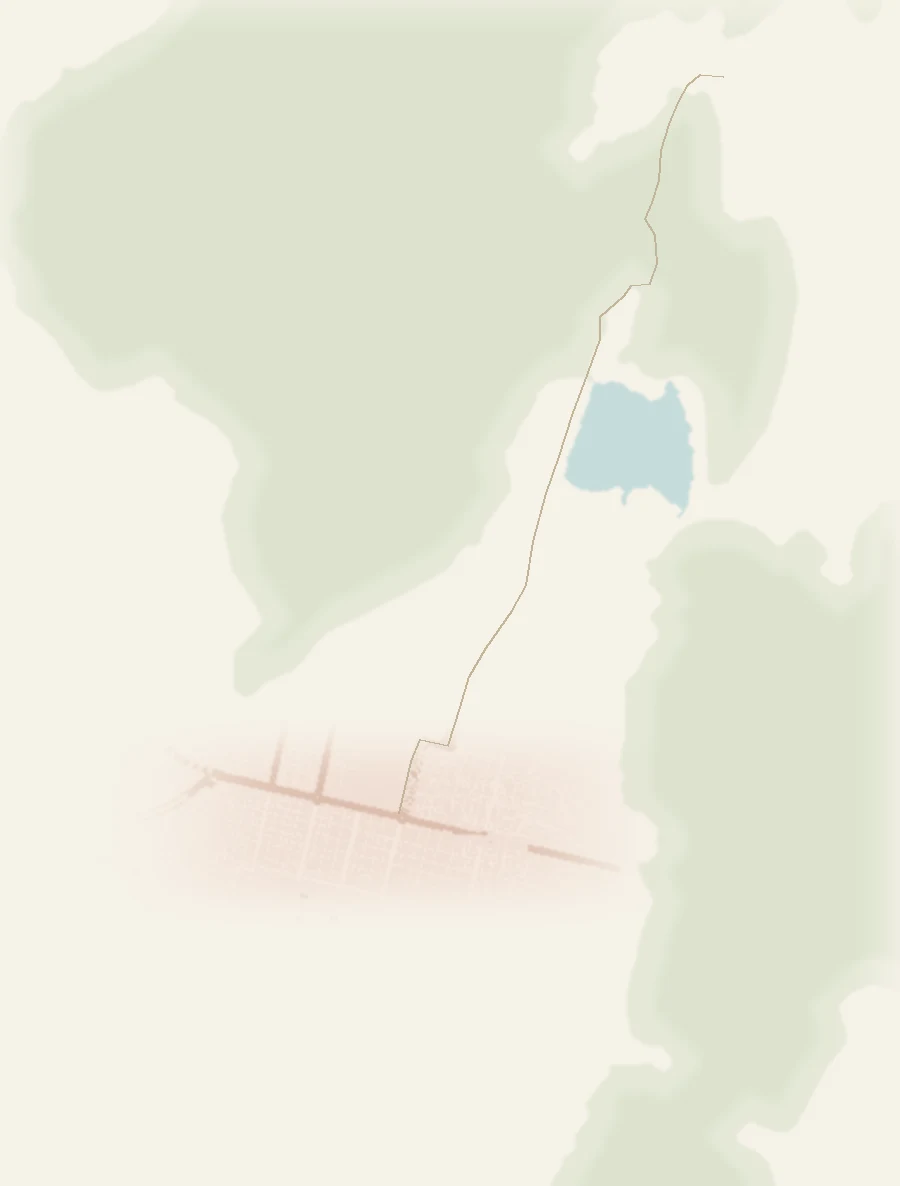
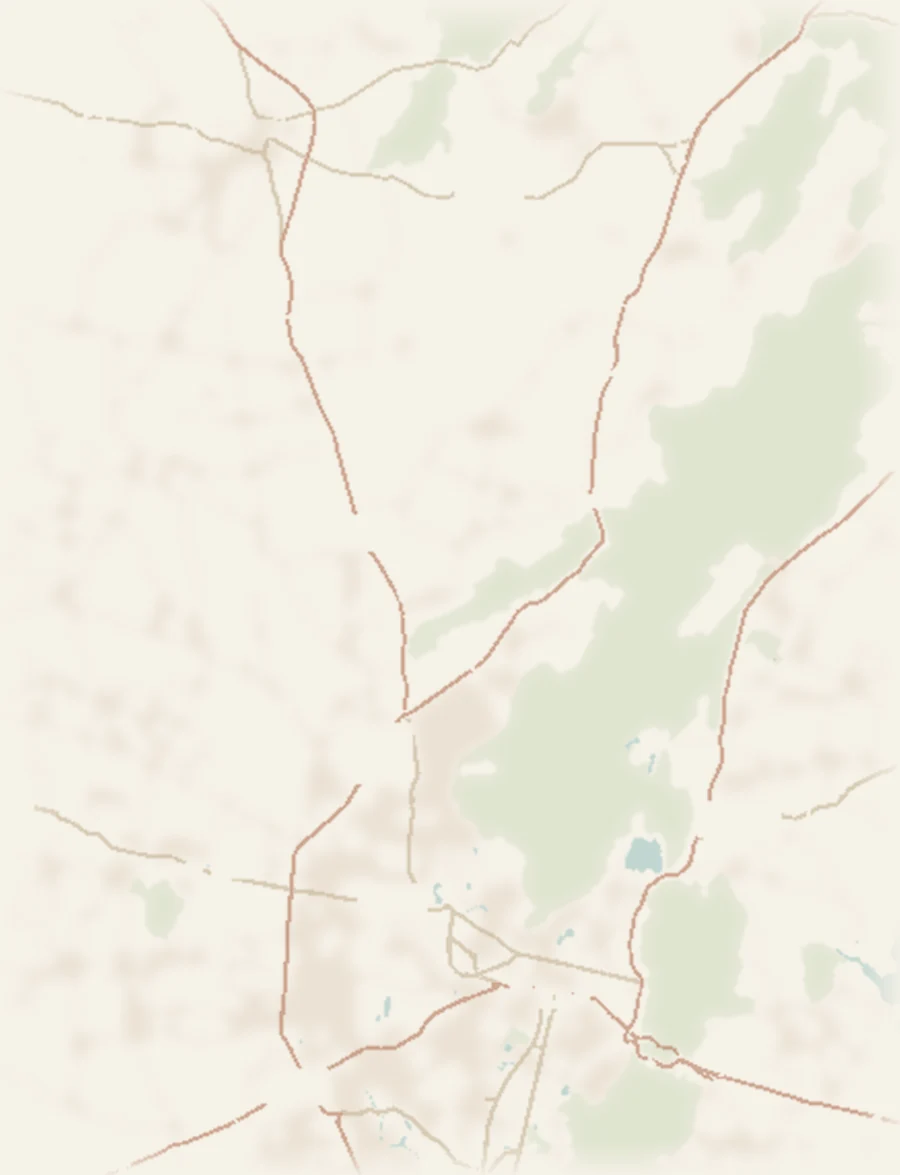
Place Chomu Palace on the main Jaipur map

diff --git a/index.html b/index.html
@@ -3,7 +3,7 @@
 <head>
   <meta charset="utf-8"><meta name="viewport" content="width=device-width,initial-scale=1"><meta name="robots" content="noindex"><title>Shivangi &amp; Shaan | Chomu Palace</title>
   <link rel="stylesheet" href="assets/vendor/photoswipe-5.4.4/photoswipe.css">
-  <link rel="stylesheet" href="styles.css?v=chomu-whatsapp">
+  <link rel="stylesheet" href="styles.css?v=chomu-on-the-map">
   <script defer src="site.js?v=chomu-whatsapp"></script>
   <script type="module" src="photo-lightbox.js"></script>
 </head><body>
@@ -49,11 +49,14 @@
 <div id="peacock-timeline">
 <div class="ps-stage" aria-label="Wedding programme styling">
 <section class="ps-sheet" aria-labelledby="ps-timeline-heading">
-<header class="ps-header"><h2 class="ps-title" id="ps-timeline-heading">The Timeline</h2><div class="ps-title-peacock" aria-hidden="true"></div></header>
+<header class="ps-header">
+  <div class="ps-title-row"><h2 class="ps-title" id="ps-timeline-heading">The Timeline</h2><div class="ps-title-peacock" aria-hidden="true"></div></div>
+  <p class="ps-venue">Chomu Palace</p>
+</header>
 
 <section class="ps-day" aria-labelledby="ps-sunday"><h3 class="ps-date" id="ps-sunday">Sunday · December 27</h3><div class="ps-events"><article class="ps-event"><time datetime="2026-12-27T13:00:00+05:30">1:00 PM</time><img class="ps-event-motif ps-motif-henna" src="assets/motif-henna-isolated.webp" alt="" aria-hidden="true" width="44" height="52"><div class="ps-event-body"><h4>Mehendi Mela & Haldi</h4><p>Chaar Baagh</p></div></article><article class="ps-event"><time datetime="2026-12-27T19:00:00+05:30">7:00 PM</time><img class="ps-event-motif ps-motif-music" src="assets/motif-music-isolated.webp" alt="" aria-hidden="true" width="44" height="52"><div class="ps-event-body"><h4>Sangeet & Cocktails</h4><p>Swaimaan Mahal</p></div></article></div></section>
 <section class="ps-day" aria-labelledby="ps-monday"><h3 class="ps-date" id="ps-monday">Monday · December 28</h3><div class="ps-events"><article class="ps-event"><time datetime="2026-12-28T15:00:00+05:30">3:00 PM</time><img class="ps-event-motif ps-motif-baraat" src="assets/motif-baraat-isolated.webp" alt="" aria-hidden="true" width="44" height="52"><div class="ps-event-body"><h4>Baraat assembles</h4><p>Mani Chowk</p></div></article><article class="ps-event"><time datetime="2026-12-28T16:30:00+05:30">4:30 PM</time><img class="ps-event-motif ps-motif-garland" src="assets/motif-garland-isolated.webp" alt="" aria-hidden="true" width="44" height="52"><div class="ps-event-body"><h4>Varmala & Pheras</h4><p>Mani Chowk</p></div></article><article class="ps-event"><time datetime="2026-12-28T20:00:00+05:30">8:00 PM</time><img class="ps-event-motif ps-motif-reception" src="assets/motif-reception-isolated.webp" alt="" aria-hidden="true" width="44" height="52"><div class="ps-event-body"><h4>Reception</h4><p>Manoharpole Garden</p></div></article></div></section>
-<footer class="ps-footer"><small>Chomu Palace · 2026 · All times IST</small></footer>
+<footer class="ps-footer"><small>2026 · All times IST</small></footer>
 </section>
 </div>
 </div>
@@ -62,7 +65,7 @@
   <div class="cc-inner cc-service">
     <div>
       <h2 class="cc-heading" id="cc-guest-heading">Hair <em>&amp; makeup</em></h2>
-      <p class="cc-copy">Message us with the service and event you’d like to book for.</p>
+      <p class="cc-copy">Services available at the Chomu Palace.</p>
     </div>
     <a class="cc-whatsapp" href="https://wa.me/919252096570?text=Hi%21%20I%27d%20like%20to%20request%20hair%20and%20makeup%20for%20the%20wedding." aria-label="Request hair and makeup on WhatsApp">Message on WhatsApp</a>
   </div>
@@ -72,27 +75,32 @@
   <section class="jp-guide" aria-labelledby="jp-heading">
     <header><h2 id="jp-heading">A taste of <em>Jaipur.</em></h2></header>
     <div class="jp-layout">
-      <figure class="jp-main" aria-label="Illustrated map of Jaipur with a regional inset showing Chomu Palace to the northwest">
-        <div class="jp-map" aria-hidden="true">
-          <img src="assets/jaipur-overview.webp" width="900" height="1186" alt="">
-          <span class="jp-north">↑ N</span>
-          <span class="jp-detail-locator" style="left:32.308%;top:64.088%;width:20.577%;height:11.679%"></span>
-          <span class="jp-context amber-label" style="left:69.808%;top:1.314%">Amber Palace</span><span class="jp-context hill-label" style="left:37.885%;top:25.255%">Aravalli foothills</span><span class="jp-context lake-label" style="left:72.692%;top:44.672%">Man Sagar Lake</span><span class="jp-context fort-label" style="left:28.462%;top:47.153%">Nahargarh Fort</span><span class="jp-context pink-label" style="left:44.423%;top:79.270%">The Pink City</span>
-          <span class="jp-scale" style="width:11.289%">1 km</span>
-          <span class="jp-mark" data-place="amber" style="left:71.413%;top:8.883%"><i class="jp-art amber"></i><b>1</b></span><span class="jp-mark" data-place="nahargarh" style="left:31.969%;top:55.296%"><i class="jp-art nahargarh"></i><b>2</b></span><span class="jp-mark" data-place="rawat" style="left:10.944%;top:70.552%"><i class="jp-art rawat"></i><b>6</b></span><span class="jp-mark" data-place="palladio" style="left:31.127%;top:92.854%"><i class="jp-art palladio"></i><b>8</b></span>
-        </div>
-        <div class="jp-region" role="group" aria-label="Regional inset, north up. Chomu Palace is northwest of Jaipur.">
-          <span class="jp-region-caption" aria-hidden="true">Regional inset</span>
-          <span class="jp-region-north" aria-hidden="true">↑ N</span>
-          <svg class="jp-region-map" viewBox="0 0 184 114" aria-hidden="true">
-            <!-- North-up Mercator. Chomu Palace: 27.1694 N, 75.7208 E.
-                 The small rectangle shows the extent of the detailed Jaipur map. -->
-            <rect x="34.28" y="67.36" width="15.22" height="20.05" class="jp-region-extent"/>
-            <circle cx="23" cy="34" r="3.6" class="jp-region-venue"/>
-            <circle cx="41.06" cy="81" r="2.55" class="jp-region-centre"/>
-          </svg>
-          <a class="jp-region-chomu" href="https://www.google.com/maps/dir/?api=1&amp;destination=Chomu+Palace+Hotel%2C+Chomu%2C+Rajasthan" target="_blank" rel="noopener noreferrer" aria-label="Directions to Chomu Palace from the regional map">Chomu Palace</a>
-          <span class="jp-region-city">Jaipur</span>
+      <figure class="jp-main" aria-label="Illustrated map of Jaipur and Chomu Palace, northwest of the city">
+        <div class="jp-map">
+          <!-- North-up Web Mercator, west 75.635°, east 75.935°, north 27.210°, south 26.861°. -->
+          <img src="assets/jaipur-overview.webp?v=chomu-on-the-map" width="900" height="1175" alt="">
+          <div aria-hidden="true">
+            <span class="jp-north">↑ N</span>
+            <span class="jp-detail-locator" style="left:60.264%;top:80.815%;width:6.123%;height:3.505%"></span>
+            <svg class="jp-leaders" viewBox="0 0 900 1175">
+              <g class="jp-anchor" data-place="amber"><line x1="647.1" y1="754.91" x2="705" y2="723"/><circle cx="647.1" cy="754.91" r="5"/></g>
+              <g class="jp-anchor" data-place="nahargarh"><line x1="541.47" y1="918.58" x2="484" y2="858"/><circle cx="541.47" cy="918.58" r="5"/></g>
+              <g class="jp-anchor" data-place="rawat"><line x1="485.17" y1="972.37" x2="389" y2="976"/><circle cx="485.17" cy="972.37" r="5"/></g>
+              <g class="jp-anchor" data-place="palladio"><line x1="539.22" y1="1051.02" x2="576" y2="1065"/><circle cx="539.22" cy="1051.02" r="5"/></g>
+              <line x1="597.48" y1="970.5" x2="632" y2="970.5"/>
+            </svg>
+            <span class="jp-context hill-label" style="left:73.5%;top:45%">Aravalli foothills</span>
+            <span class="jp-context" style="left:82%;top:52.2%">Amber Palace</span>
+            <span class="jp-context" style="left:46%;top:64%">Nahargarh Fort</span>
+            <span class="jp-context pink-label" style="left:82%;top:82.6%">The Pink City</span>
+            <span class="jp-context jp-city-label" style="left:45.5%;top:93.5%">Jaipur</span>
+            <span class="jp-scale" style="width:16.786%">5 km</span>
+            <span class="jp-mark" data-place="amber" style="left:83.556%;top:59.660%"><i class="jp-art amber"></i><b>1</b></span>
+            <span class="jp-mark" data-place="nahargarh" style="left:50.778%;top:70.894%"><i class="jp-art nahargarh"></i><b>2</b></span>
+            <span class="jp-mark" data-place="rawat" style="left:36.889%;top:83.064%"><i class="jp-art rawat"></i><b>6</b></span>
+            <span class="jp-mark" data-place="palladio" style="left:68.889%;top:92.085%"><i class="jp-art palladio"></i><b>8</b></span>
+          </div>
+          <a class="jp-venue" style="left:28.600%;top:11.649%" href="https://www.google.com/maps/dir/?api=1&amp;destination=Chomu+Palace+Hotel%2C+Chomu%2C+Rajasthan" target="_blank" rel="noopener noreferrer" aria-label="Chomu Palace, wedding venue. Get directions.">Chomu Palace</a>
         </div>
       </figure>
       <div class="jp-side">

diff --git a/styles.css b/styles.css
@@ -198,7 +198,8 @@ body:has(.pswp--open) { overflow: hidden; }
 #peacock-timeline .ps-footer small{display:block;font:400 11px/1.7 'Cormorant Garamond',Georgia,serif;letter-spacing:.35px;color:var(--ps-muted);margin-top:9px}
 @container (max-width:440px){#peacock-timeline .ps-stage{padding:24px 24px}#peacock-timeline .ps-sheet{padding:0 22px}#peacock-timeline .ps-title{font-size:37px;gap:8px}#peacock-timeline .ps-title em{font-size:40px}#peacock-timeline .ps-stage{--ps-bird-size:124px}}
 @container (max-width:350px){#peacock-timeline .ps-stage{padding:22px 18px}#peacock-timeline .ps-sheet{padding:0 18px}#peacock-timeline .ps-event-body{padding-left:12px}#peacock-timeline .ps-event h4{font-size:16.5px}#peacock-timeline .ps-event p{font-size:13px}#peacock-timeline .ps-bird-left{left:calc(16px - var(--ps-bird-size));top:97px}#peacock-timeline .ps-bird-right{right:calc(16px - var(--ps-bird-size));top:261px}}
-#peacock-timeline .ps-header{display:flex;align-items:center;justify-content:center;gap:10px;margin-bottom:24px}
+#peacock-timeline .ps-title-row{display:flex;align-items:center;justify-content:center;gap:10px}
+#peacock-timeline p.ps-venue{margin:4px 0 0;color:var(--ps-muted);font:400 18px/1.25 'Cormorant Garamond',Georgia,serif;letter-spacing:.035em}
 #peacock-timeline h2.ps-title{font:400 46px/1.2 'Pinyon Script','Cormorant Garamond',Georgia,serif;letter-spacing:0;display:block;white-space:nowrap}
 #peacock-timeline .ps-title-peacock{width:76px;height:38px;flex:0 0 76px;background-image:var(--ps-art);background-size:contain;background-repeat:no-repeat;opacity:var(--ps-motifs)}
 #peacock-timeline .ps-event{position:relative;min-height:54px}
@@ -210,7 +211,7 @@ body:has(.pswp--open) { overflow: hidden; }
 #peacock-timeline .ps-motif-garland{background-position:75% center}
 #peacock-timeline .ps-motif-reception{background-position:100% center}
 @container (max-width:440px){#peacock-timeline h2.ps-title{font-size:41px}#peacock-timeline .ps-title-peacock{width:64px;height:32px;flex-basis:64px}}
-@container (max-width:350px){#peacock-timeline h2.ps-title{font-size:38px}#peacock-timeline .ps-header{gap:7px}#peacock-timeline .ps-title-peacock{width:58px;height:29px;flex-basis:58px}#peacock-timeline .ps-event-motif{right:-31px;width:34px;height:57px}}
+@container (max-width:350px){#peacock-timeline h2.ps-title{font-size:38px}#peacock-timeline .ps-title-row{gap:7px}#peacock-timeline .ps-title-peacock{width:58px;height:29px;flex-basis:58px}#peacock-timeline .ps-event-motif{right:-31px;width:34px;height:57px}}
 
 #peacock-timeline .ps-stage{--ps-event-art:none}
 
@@ -253,12 +254,10 @@ body:has(.pswp--open) { overflow: hidden; }
   align-items: start;
 }
 #pink-city-guide figure { min-width: 0; margin: 0; }
-#pink-city-guide .jp-main { position: relative; }
 #pink-city-guide .jp-map { position: relative; }
 #pink-city-guide .jp-map > img { display: block; width: 100%; height: auto; }
-#pink-city-guide .jp-main .jp-map > img { aspect-ratio: 520 / 685; }
 #pink-city-guide .jp-detail .jp-map > img { aspect-ratio: 107 / 80; }
-#pink-city-guide .jp-leaders { position: absolute; inset: 0; width: 100%; height: 100%; }
+#pink-city-guide .jp-leaders { position: absolute; inset: 0; width: 100%; height: 100%; pointer-events: none; }
 #pink-city-guide .jp-leaders line { stroke: #a87865; stroke-width: 1; vector-effect: non-scaling-stroke; }
 #pink-city-guide .jp-leaders circle { fill: #925748; stroke: #fff8ed; stroke-width: 1; vector-effect: non-scaling-stroke; }
 #pink-city-guide .jp-anchor.is-selected line { stroke: #2c493c; }
@@ -271,44 +270,32 @@ body:has(.pswp--open) { overflow: hidden; }
   transform: translate(-50%, -50%);
 }
 #pink-city-guide .jp-north { right: 1%; top: 2%; transform: none; font-size: 12px; }
-#pink-city-guide .jp-region {
+#pink-city-guide .jp-venue {
   position: absolute;
-  top: 1%;
-  left: 1%;
-  width: min(46%, 205px);
-  aspect-ratio: 184 / 114;
-  border: 1px solid #d4cdb9;
-  background: #f7f3e9;
-}
-#pink-city-guide .jp-region-map { display: block; width: 100%; height: 100%; }
-#pink-city-guide .jp-region-extent { fill: #e6eadc; stroke: #98a286; stroke-width: 1; stroke-dasharray: 2 1.6; }
-#pink-city-guide .jp-region-venue { fill: #925748; }
-#pink-city-guide .jp-region-centre { fill: #607557; }
-#pink-city-guide :is(.jp-region-caption, .jp-region-north) {
-  position: absolute;
-  top: 4px;
-  font: 11px/1.2 'DM Sans', Arial, sans-serif;
-  color: #586453;
-}
-#pink-city-guide .jp-region-caption { left: 7px; }
-#pink-city-guide .jp-region-north { right: 6px; }
-#pink-city-guide :is(.jp-region-chomu, .jp-region-city) {
-  position: absolute;
-  font: 12px/1.2 'DM Sans', Arial, sans-serif;
-  white-space: nowrap;
-  transform: translateY(-50%);
-}
-#pink-city-guide .jp-region-chomu {
-  left: 17.4%;
-  top: 29.82%;
-  display: inline-flex;
+  display: flex;
   align-items: center;
+  gap: 7px;
   min-height: 44px;
+  padding-right: 4px;
+  transform: translate(-5px, -50%);
   color: #2c493c;
+  font: 500 clamp(17px, 3.5cqw, 22px)/1.1 'Cormorant Garamond', Georgia, serif;
+  white-space: nowrap;
   text-decoration: underline;
+  text-decoration-color: #a87865;
   text-underline-offset: 3px;
 }
-#pink-city-guide .jp-region-city { left: 31%; top: 71.05%; color: #586453; }
+#pink-city-guide .jp-venue::before {
+  content: '';
+  flex: 0 0 10px;
+  height: 10px;
+  border-radius: 50%;
+  background: #925748;
+  box-shadow: 0 0 0 2px #f6f2e8;
+}
+#pink-city-guide .jp-venue:hover { text-decoration-color: currentColor; }
+#pink-city-guide .jp-venue:focus-visible { outline: 2px solid currentColor; outline-offset: 3px; }
+#pink-city-guide .jp-city-label { font-size: clamp(17px, 4cqw, 22px); }
 #pink-city-guide .jp-detail-locator {
   position: absolute;
   border: 1px dashed #ac7868;
@@ -319,8 +306,7 @@ body:has(.pswp--open) { overflow: hidden; }
   padding-top: 2px; white-space: nowrap;
   color: #675f4e; font-size: 11px; text-align: center;
 }
-#pink-city-guide .hill-label, #pink-city-guide .lake-label { font-style: italic; }
-#pink-city-guide .lake-label { color: #496c71; }
+#pink-city-guide .hill-label { font-style: italic; }
 #pink-city-guide .pink-label { color: #925748; }
 #pink-city-guide .jp-mark {
   position: absolute; display: block;
@@ -328,6 +314,7 @@ body:has(.pswp--open) { overflow: hidden; }
   transform: translate(-50%, -50%);
   isolation: isolate;
 }
+#pink-city-guide .jp-main .jp-mark { width: clamp(35px, 8cqw, 65px); }
 #pink-city-guide .jp-mark.is-selected::before {
   content: ''; position: absolute; inset: 5%; z-index: -1;
   border: 1px solid #8c7650; border-radius: 50%; background: #fffaf0c7;
